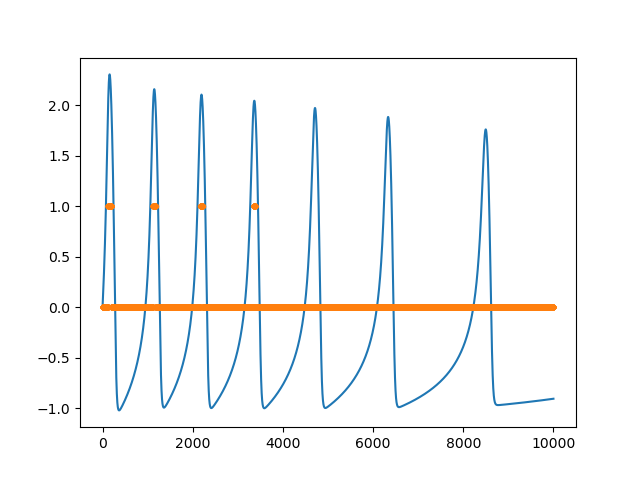
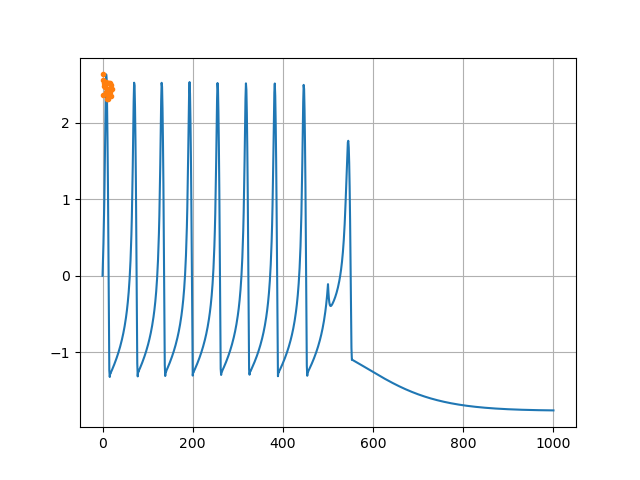
1

diff --git a/Hindmarsh-Rose.py b/Hindmarsh-Rose.py
@@ -62,14 +62,16 @@ if __name__ == '__main__':
         'c': 1., 
         'd': 5., 
         's': 4., 
-        'r': 10e-3,
+        'r': 0.001,
         'xR': -8/5,
     }
-    T = 10000
-    model = HR(params, dt=0.005)
+    T = 1000
+    model = HR(params, dt=0.1)
     for i in range(T):
-        model.step(I=2) # np.random.uniform(0,1)
+        model.step(I=2 if i<500 else 0) # np.random.uniform(0,1)
     
     plt.plot(model.xs)
-    plt.plot(np.array(model.xs)>2.0,'.')
+    plt.plot(model.xs[np.array(model.xs)>2.3],'.')
+    plt.grid()
     plt.savefig('HR.png')
+    print((np.array(model.xs)>2.3).sum())
